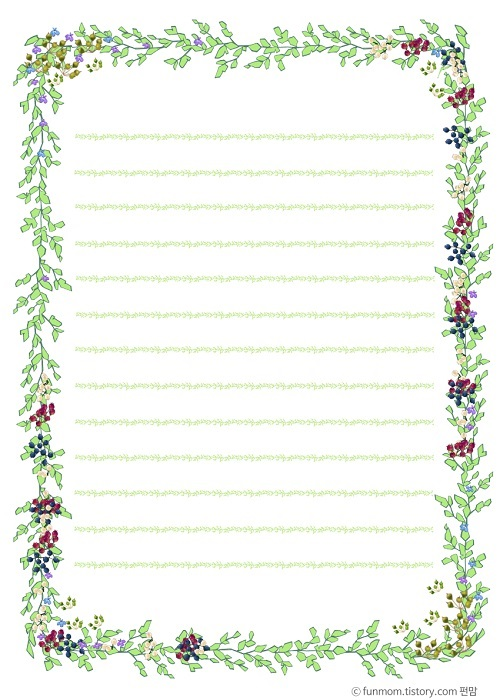
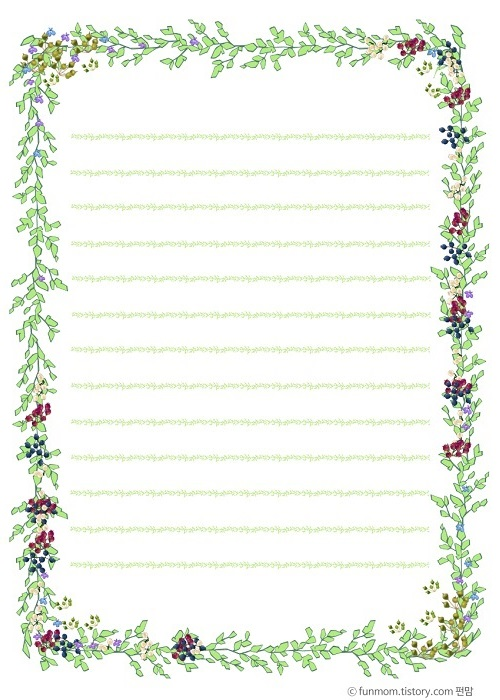
반응형 웹으로

diff --git a/src/views/Home.vue b/src/views/Home.vue
@@ -77,8 +77,6 @@ export default {
       // the canvas.
       const options = {
         type: 'dataURL',
-        width: '700px',
-        height: '980px',
       };
       const output = await this.$html2canvas(el, options);
 
@@ -126,15 +124,46 @@ export default {
   min-width: 200px;
   height: 700px;
   margin-top: 70px;
-  margin-left: 100px;
+  margin-left: 130px;
 }
 .letter_back > p{
   position: relative;
   top: 105px;
-  left: 80px;
+  left: 75px;
   width: 347px;
   height: 504px;
   overflow: hidden;
   line-height: 2.25;
+}
+@media screen and (max-width: 800px){
+  .letter_container{
+    margin-top: 60px;
+    display: block;
+  }
+  .letter_back{
+    width: 400px;
+    min-width: 400px;
+    height: 570px;
+    background-image: url('../assets/images/letter-1.jpg');
+    background-size: contain;
+    margin: 0 auto;
+  }
+  .letter_write{
+    width: 400px;
+    min-width: 200px;
+    height: 700px;
+    margin: 30px auto;
+  }
+  .letter_back > p{
+    position: relative;
+    top: 82px;
+    left: 58px;
+    width: 347px;
+    height: 504px;
+    overflow: hidden;
+    line-height: 2.08;
+    font-size: 14px;
+    color: rgba(61, 59, 59, 0.87);
+  }
 }
 </style>

diff --git a/public/index.html b/public/index.html
@@ -3,9 +3,9 @@
   <head>
     <meta charset="utf-8">
     <meta http-equiv="X-UA-Compatible" content="IE=edge">
-    <meta name="viewport" content="width=device-width,initial-scale=1.0">
+    <meta name="viewport" content="width=device-width, initial-scale=1, user-scalable=no" />
     <link rel="icon" href="<%= BASE_URL %>favicon.ico">
-    <title><%= htmlWebpackPlugin.options.title %></title>
+    <title>모두의 편지</title>
   </head>
   <body>
     <noscript>

diff --git a/src/App.vue b/src/App.vue
@@ -3,7 +3,10 @@
     <div id="nav">
       <nav-bar />
     </div>
-    <b-container fluid="md">
+    <b-container
+      id="container"
+      fluid="md"
+    >
       <router-view />
     </b-container>
   </div>
@@ -18,3 +21,8 @@ export default {
   },
 };
 </script>
+<style>
+#container{
+  padding: 0;
+}
+</style>
